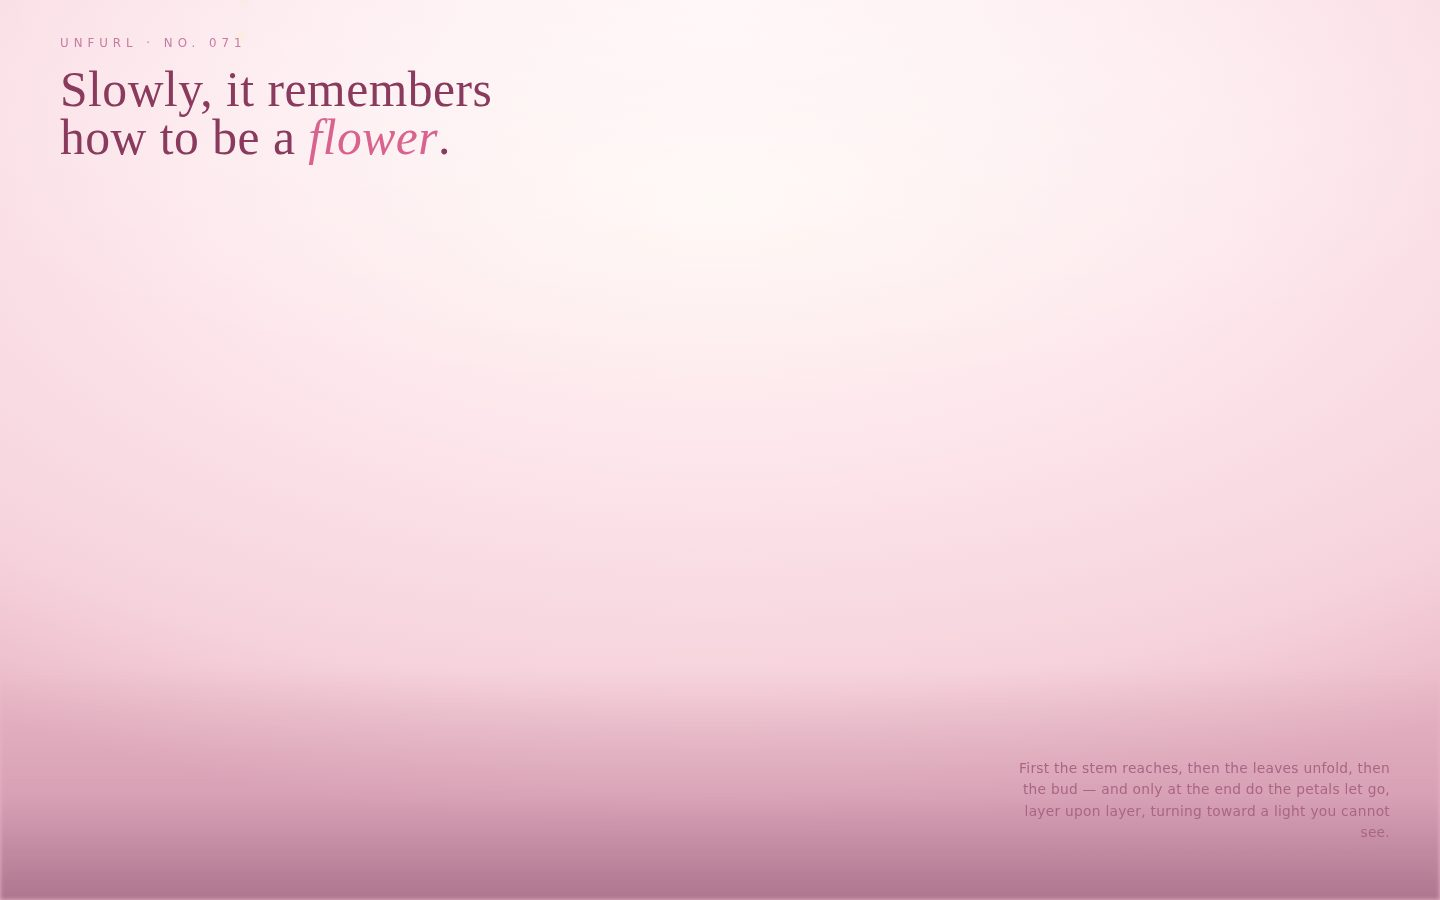
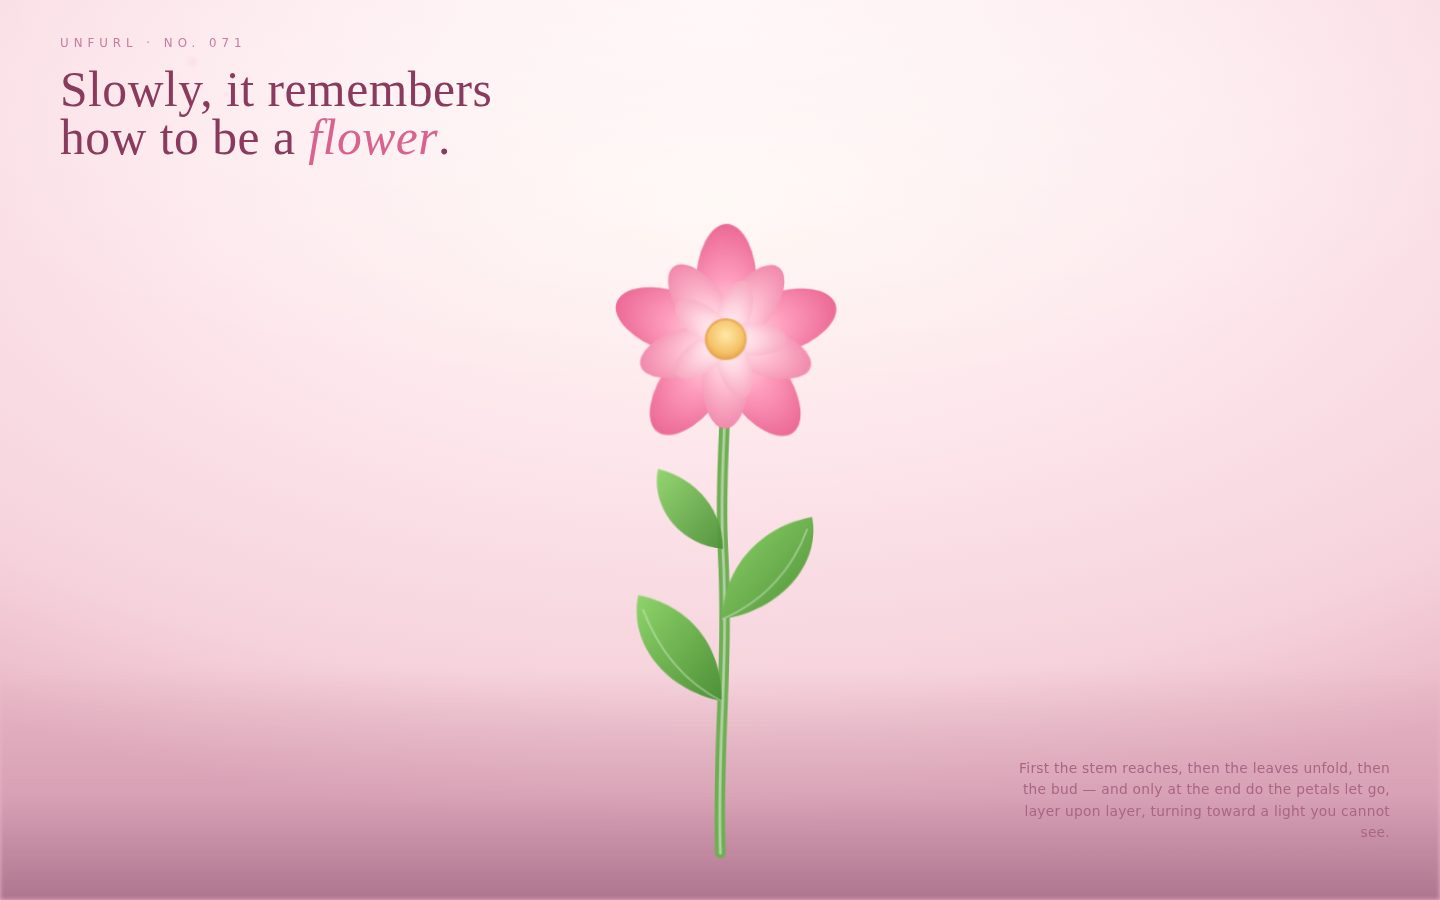
Update blooming flower study and gallery screenshot

Changed region(s): [[0.4062, 0.2489, 0.5938, 0.9333]]

diff --git a/071-blooming-flower.html b/071-blooming-flower.html
@@ -22,9 +22,9 @@
     filter:blur(2px);}
 
   .plant{position:relative;z-index:3;width:min(520px,92vw);height:min(78vh,760px);
-    transform-origin:bottom center;
-    animation:sway 6.5s ease-in-out infinite;animation-delay:3.4s;opacity:0;
-    animation-fill-mode:both;}
+    transform-origin:bottom center;opacity:0;
+    animation:rise 1.6s ease-out forwards, sway 6.5s ease-in-out 1.6s infinite;}
+  @keyframes rise{0%{opacity:0}100%{opacity:1}}
   @keyframes sway{
     0%,100%{transform:rotate(-1.4deg)}
     50%{transform:rotate(1.4deg)}
